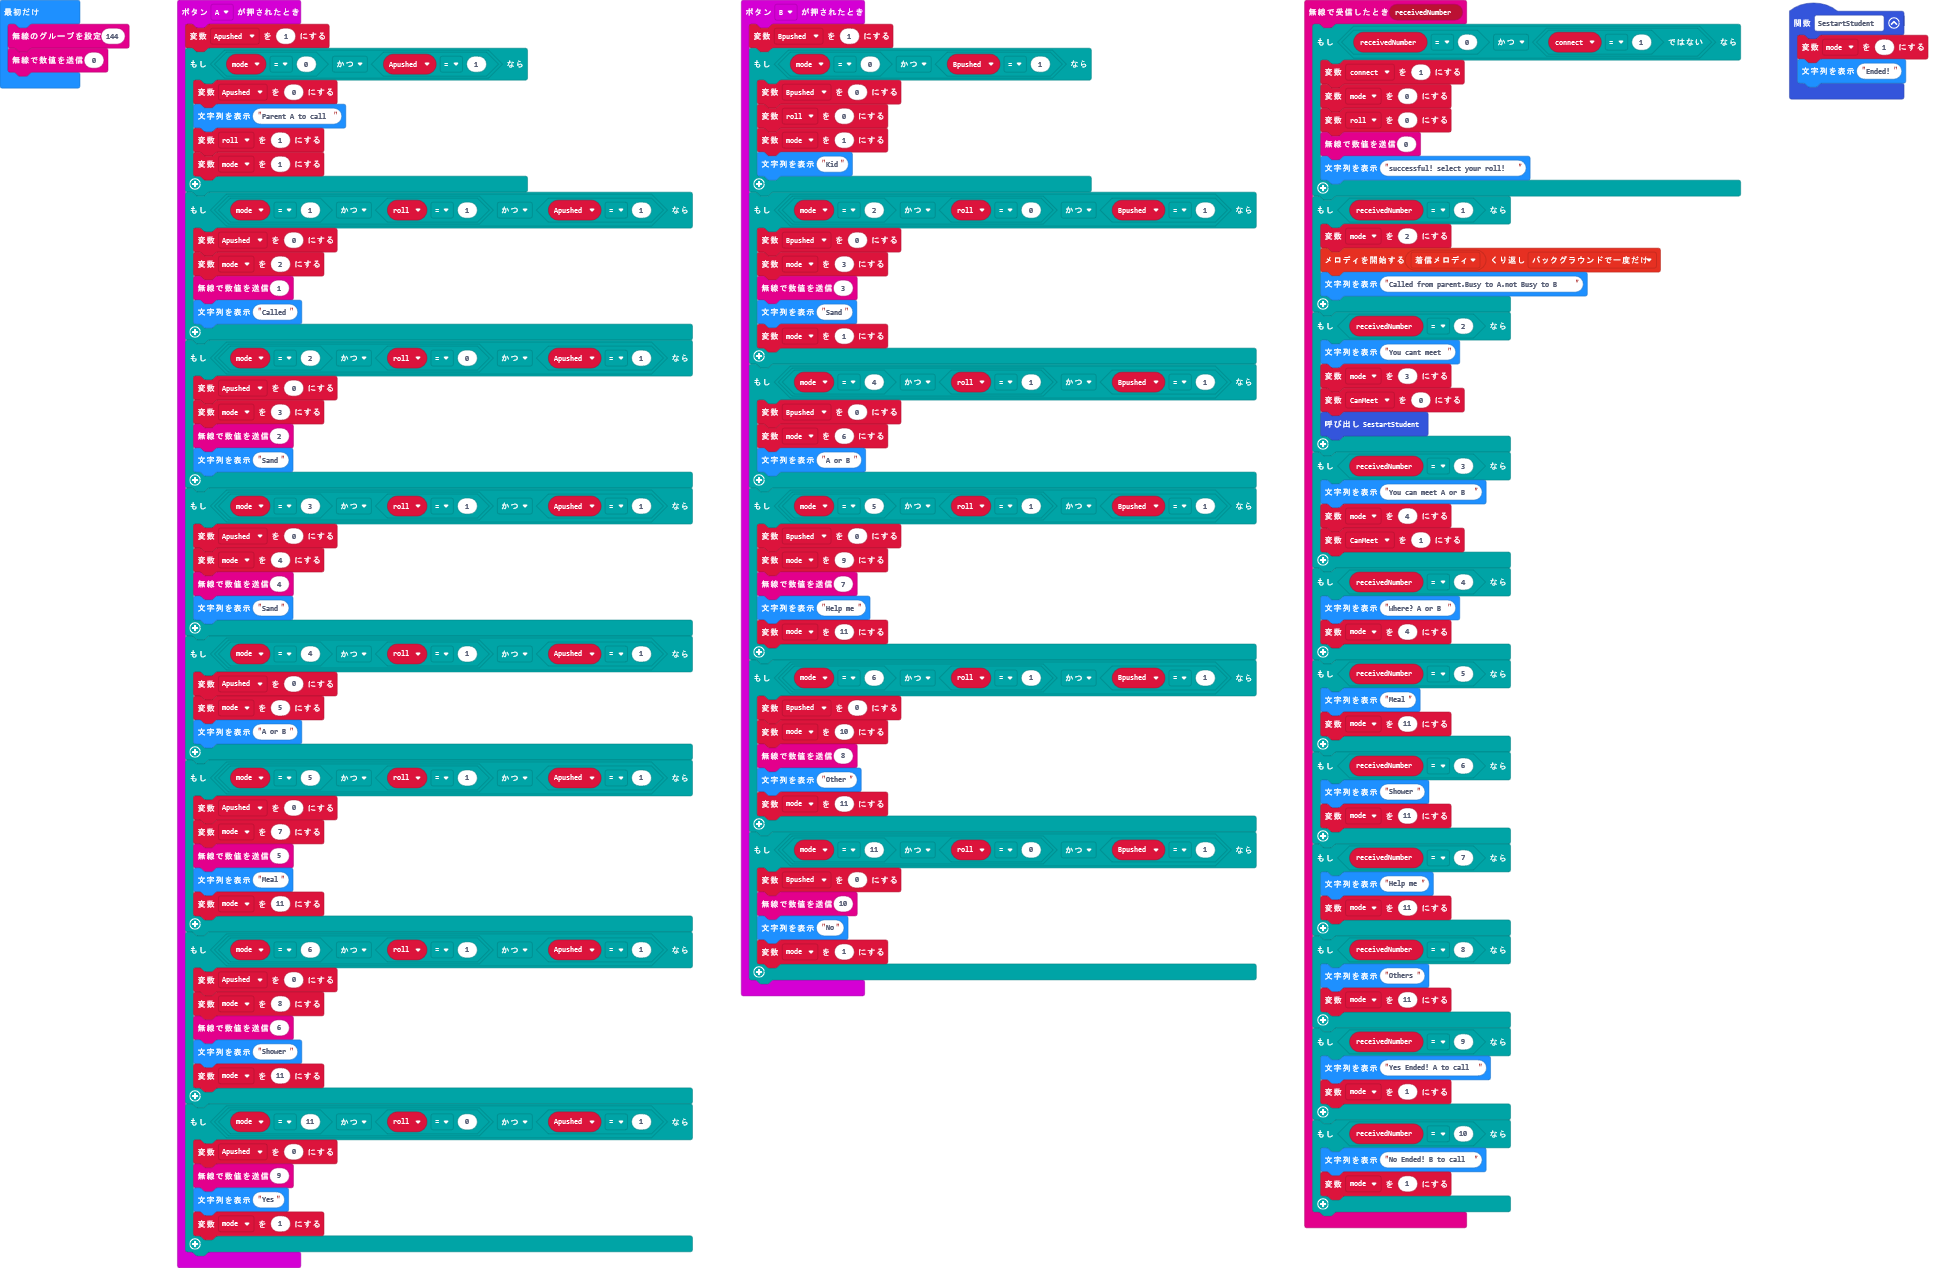
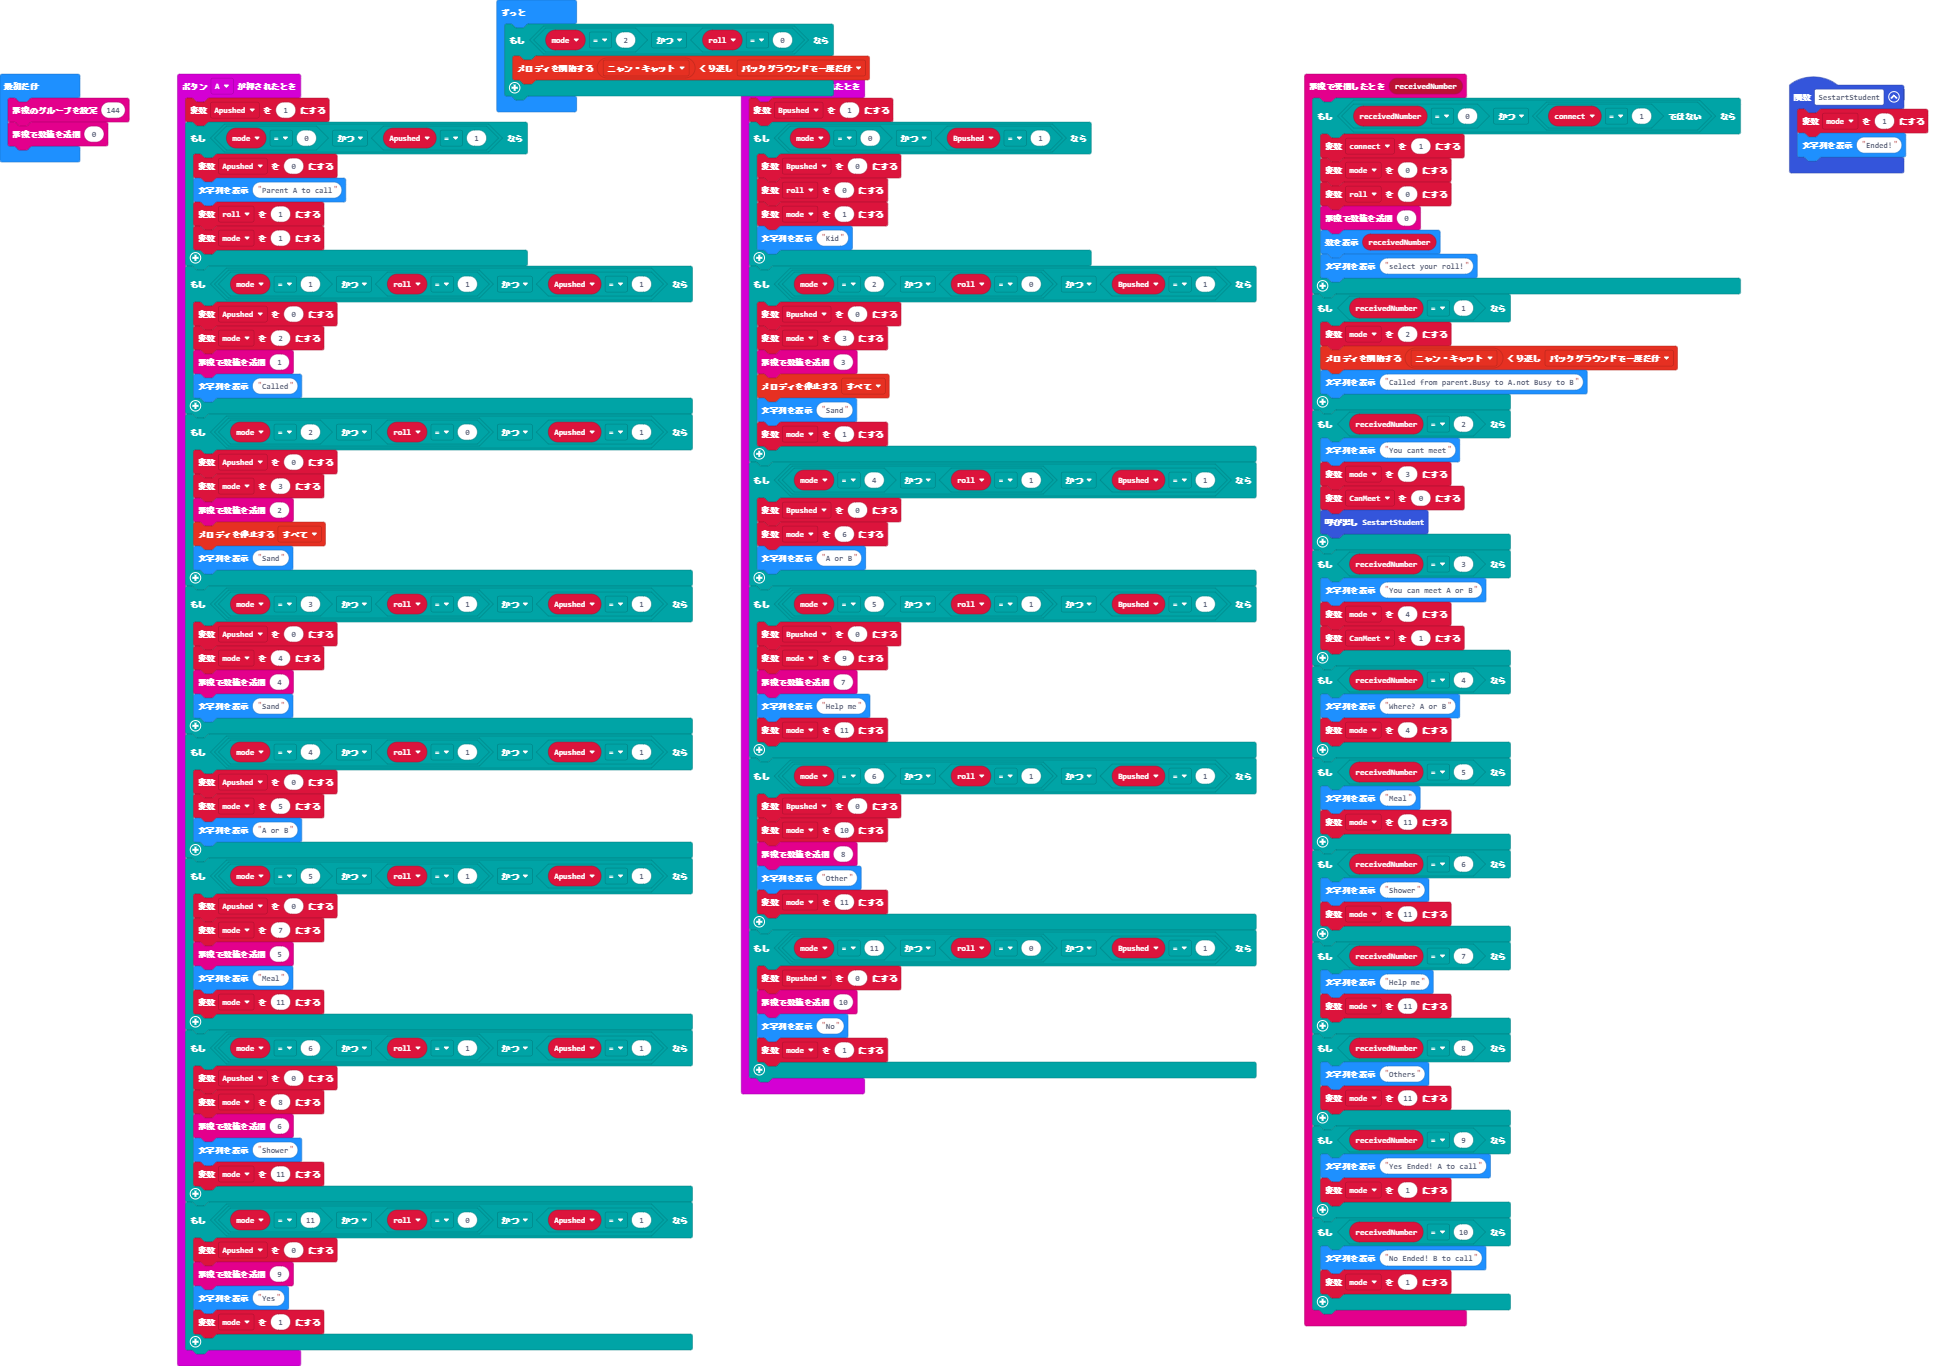
更新 pxt.json, main.blocks, main.ts

diff --git a/main.ts b/main.ts
@@ -4,11 +4,12 @@ radio.onReceivedNumber(function (receivedNumber) {
         mode = 0
         roll = 0
         radio.sendNumber(0)
-        basic.showString("successful! select your roll!")
+        basic.showNumber(receivedNumber)
+        basic.showString("select your roll!")
     }
     if (receivedNumber == 1) {
         mode = 2
-        music.startMelody(music.builtInMelody(Melodies.Ringtone), MelodyOptions.OnceInBackground)
+        music.startMelody(music.builtInMelody(Melodies.Nyan), MelodyOptions.OnceInBackground)
         basic.showString("Called from parent.Busy to A.not Busy to B")
     }
     if (receivedNumber == 2) {
@@ -73,6 +74,7 @@ input.onButtonPressed(Button.A, function () {
         Apushed = 0
         mode = 3
         radio.sendNumber(2)
+        music.stopMelody(MelodyStopOptions.All)
         basic.showString("Sand")
     }
     if (mode == 3 && roll == 1 && Apushed == 1) {
@@ -119,6 +121,7 @@ input.onButtonPressed(Button.B, function () {
         Bpushed = 0
         mode = 3
         radio.sendNumber(3)
+        music.stopMelody(MelodyStopOptions.All)
         basic.showString("Sand")
         mode = 1
     }
@@ -156,3 +159,8 @@ let mode = 0
 let connect = 0
 radio.setGroup(144)
 radio.sendNumber(0)
+basic.forever(function () {
+    if (mode == 2 && roll == 0) {
+        music.startMelody(music.builtInMelody(Melodies.Nyan), MelodyOptions.OnceInBackground)
+    }
+})
